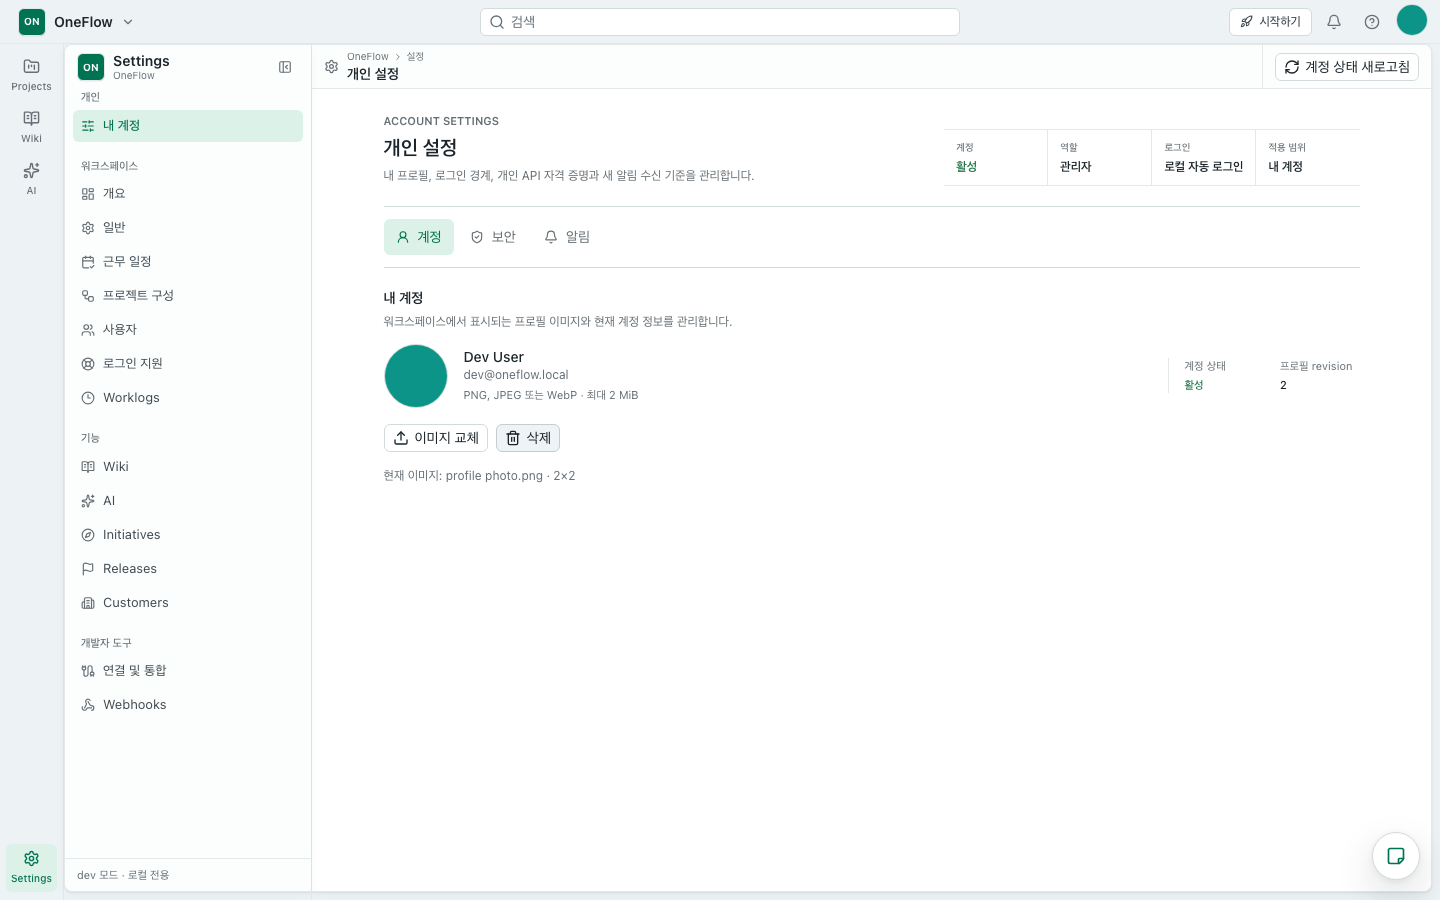
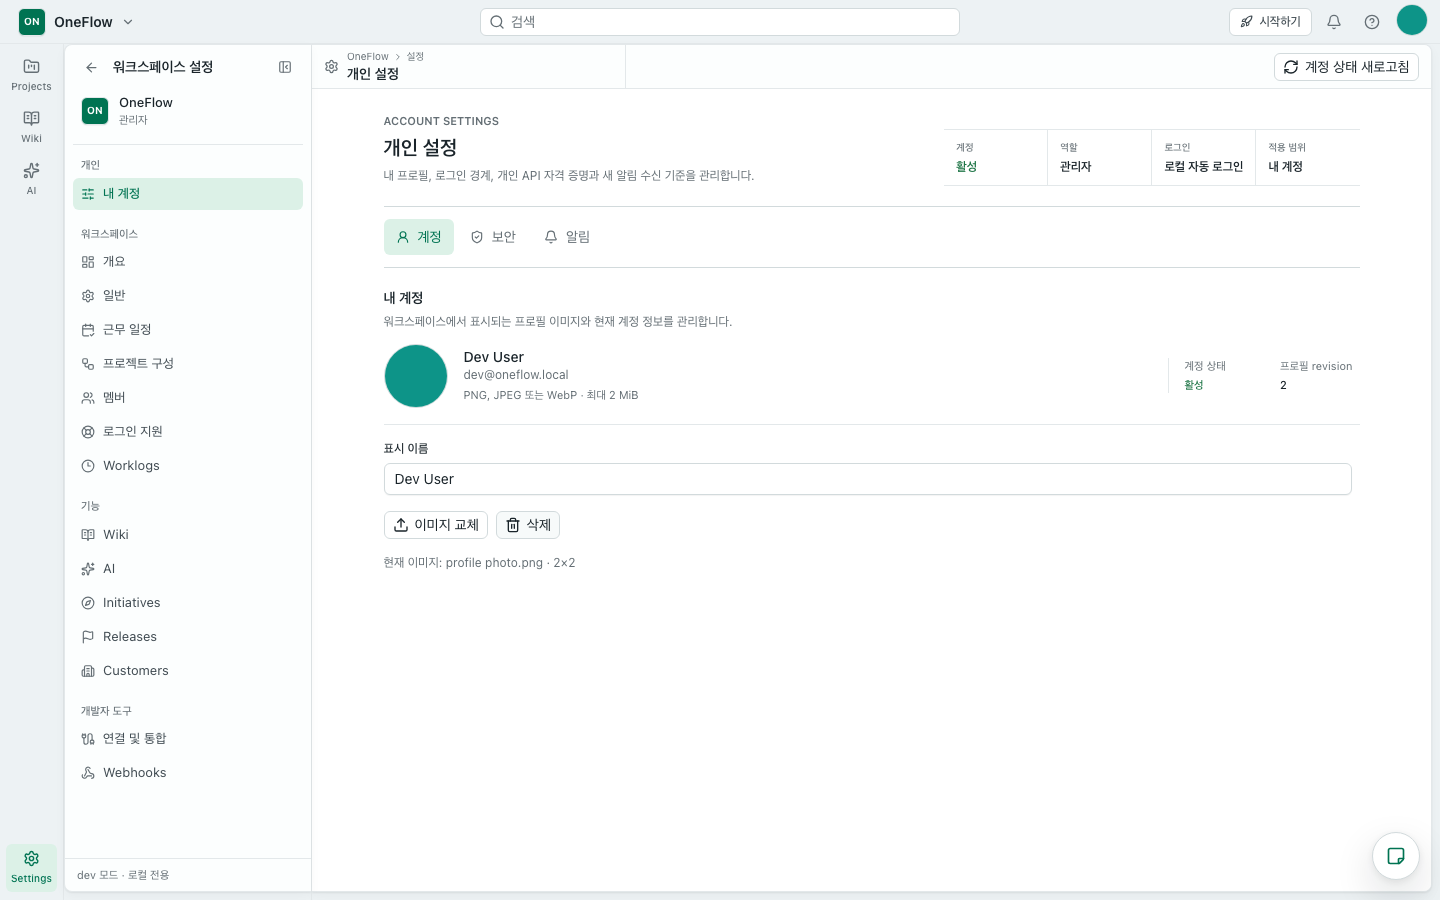
feat(profile): add self-service display name editing

diff --git a/apps/web/src/features/settings/PersonalSettingsPage.tsx b/apps/web/src/features/settings/PersonalSettingsPage.tsx
@@ -33,6 +33,7 @@ import {
   useMe,
   useRemoveProfileImage,
   useReplaceProfileImage,
+  useUpdateMyProfile,
 } from '@/features/members/api'
 import { ApiError } from '@/lib/api'
 import { formatDateTime } from '@/lib/datetime'
@@ -160,16 +161,23 @@ function ConfirmActionDialog({
 
 function AccountProfilePanel() {
   const me = useMe()
+  const updateProfile = useUpdateMyProfile()
   const replaceImage = useReplaceProfileImage()
   const removeImage = useRemoveProfileImage()
   const inputRef = useRef<HTMLInputElement>(null)
+  const [nameDraft, setNameDraft] = useState<string | null>(null)
   const [selected, setSelected] = useState<File | null>(null)
   const [selectionError, setSelectionError] = useState<string | null>(null)
   const [previewUrl, setPreviewUrl] = useState<string | null>(null)
 
+  const currentName = me.data?.display_name ?? ''
+  const effectiveName = nameDraft ?? currentName
+  const normalizedName = effectiveName.trim()
+  const nameDirty = nameDraft !== null && normalizedName !== currentName
+
   useUnsavedLocationPrompt(
-    selected !== null,
-    '저장하지 않은 프로필 이미지 선택을 버리고 이동할까요?',
+    selected !== null || nameDirty,
+    '저장하지 않은 프로필 변경을 버리고 이동할까요?',
   )
 
   useEffect(() => {
@@ -196,7 +204,10 @@ function AccountProfilePanel() {
     return <div className="h-20 animate-pulse rounded-of bg-of-subtle" aria-label="계정 불러오는 중" />
   }
 
-  const busy = replaceImage.isPending || removeImage.isPending
+  const busy = updateProfile.isPending || replaceImage.isPending || removeImage.isPending
+  const nameError = updateProfile.error
+  const nameStale = nameError instanceof ApiError && nameError.status === 412
+  const nameServerError = nameError instanceof ApiError ? nameError.message : null
   const mutationError = replaceImage.error ?? removeImage.error
   const stale = mutationError instanceof ApiError && mutationError.status === 412
   const serverError = mutationError instanceof ApiError ? mutationError.message : null
@@ -239,14 +250,86 @@ function AccountProfilePanel() {
         </dl>
       </div>
 
+      <div className="grid min-w-0 gap-2 border-t border-of-border-subtle pt-4 sm:grid-cols-[minmax(0,1fr)_auto] sm:items-end">
+        <label className="min-w-0 space-y-1.5">
+          <span className="block text-xs font-medium">표시 이름</span>
+          <Input
+            value={effectiveName}
+            maxLength={120}
+            autoComplete="name"
+            disabled={busy}
+            aria-invalid={normalizedName.length === 0}
+            onChange={(event) => {
+              setNameDraft(event.target.value)
+              updateProfile.reset()
+            }}
+          />
+        </label>
+        <div className="flex min-w-0 flex-wrap gap-2">
+          {nameDirty ? (
+            <Button
+              type="button"
+              size="sm"
+              disabled={busy || normalizedName.length === 0 || me.isFetching}
+              onClick={() =>
+                updateProfile.mutate(
+                  { displayName: normalizedName, revision: me.data.profile_revision },
+                  { onSuccess: () => setNameDraft(null) },
+                )
+              }
+            >
+              {updateProfile.isPending
+                ? '저장 중'
+                : me.isFetching
+                  ? '최신 상태 확인 중'
+                  : nameError
+                    ? '다시 저장'
+                    : '이름 저장'}
+            </Button>
+          ) : null}
+          {nameDraft !== null ? (
+            <Button
+              type="button"
+              size="sm"
+              variant="ghost"
+              disabled={busy}
+              onClick={() => {
+                setNameDraft(null)
+                updateProfile.reset()
+              }}
+            >
+              취소
+            </Button>
+          ) : null}
+        </div>
+      </div>
+
+      {normalizedName.length === 0 ? (
+        <p className="text-xs text-of-danger" role="alert">
+          표시 이름을 입력해 주세요.
+        </p>
+      ) : nameError ? (
+        <div className="flex min-w-0 flex-wrap items-center justify-between gap-2" role="alert">
+          <p className="text-xs text-of-danger">
+            {nameStale
+              ? me.isFetching
+                ? '다른 화면에서 프로필이 변경되었습니다. 최신 상태를 불러오는 중입니다.'
+                : '다른 화면에서 프로필이 변경되었습니다. 입력한 이름을 다시 저장해 주세요.'
+              : nameServerError ?? '표시 이름을 변경하지 못했습니다.'}
+          </p>
+        </div>
+      ) : null}
+
       <input
         ref={inputRef}
         type="file"
         accept="image/png,image/jpeg,image/webp"
+        disabled={busy}
         className="sr-only"
         aria-label="프로필 이미지 파일"
         onChange={(event) => {
           const file = event.target.files?.[0] ?? null
+          updateProfile.reset()
           replaceImage.reset()
           removeImage.reset()
           setSelectionError(null)

diff --git a/packages/shared/src/api-types.ts b/packages/shared/src/api-types.ts
@@ -1571,6 +1571,23 @@ export interface paths {
         patch: operations["update_personal_note_api_v1_me_personal_notes__note_id__patch"];
         trace?: never;
     };
+    "/api/v1/me/profile": {
+        parameters: {
+            query?: never;
+            header?: never;
+            path?: never;
+            cookie?: never;
+        };
+        get?: never;
+        put?: never;
+        post?: never;
+        delete?: never;
+        options?: never;
+        head?: never;
+        /** Update My Profile */
+        patch: operations["update_my_profile_api_v1_me_profile_patch"];
+        trace?: never;
+    };
     "/api/v1/me/profile-image": {
         parameters: {
             query?: never;
@@ -6609,6 +6626,14 @@ export interface components {
              * Format: uuid
              */
             user_id: string;
+        };
+        /**
+         * MeProfileUpdate
+         * @description Authenticated user's mutable personal profile fields.
+         */
+        MeProfileUpdate: {
+            /** Display Name */
+            display_name: string;
         };
         /**
          * MeRead
@@ -14773,6 +14798,44 @@ export interface operations {
                 };
                 content: {
                     "application/json": components["schemas"]["PersonalNoteError"];
+                };
+            };
+        };
+    };
+    update_my_profile_api_v1_me_profile_patch: {
+        parameters: {
+            query?: never;
+            header?: {
+                "If-Match"?: string | null;
+                authorization?: string | null;
+            };
+            path?: never;
+            cookie?: {
+                oneflow_session?: string | null;
+            };
+        };
+        requestBody: {
+            content: {
+                "application/json": components["schemas"]["MeProfileUpdate"];
+            };
+        };
+        responses: {
+            /** @description Successful Response */
+            200: {
+                headers: {
+                    [name: string]: unknown;
+                };
+                content: {
+                    "application/json": components["schemas"]["MeRead"];
+                };
+            };
+            /** @description Validation Error */
+            422: {
+                headers: {
+                    [name: string]: unknown;
+                };
+                content: {
+                    "application/json": components["schemas"]["HTTPValidationError"];
                 };
             };
         };

diff --git a/apps/web/src/features/members/api.ts b/apps/web/src/features/members/api.ts
@@ -20,6 +20,29 @@ export function useMe() {
   })
 }
 
+export function useUpdateMyProfile() {
+  const queryClient = useQueryClient()
+  return useMutation({
+    mutationFn: ({ displayName, revision }: { displayName: string; revision: number }) =>
+      api<Me>('/api/v1/me/profile', {
+        method: 'PATCH',
+        headers: { 'If-Match': `"${revision}"` },
+        body: JSON.stringify({ display_name: displayName }),
+      }),
+    onSuccess: (updated) => {
+      queryClient.setQueryData(['me'], updated)
+      void queryClient.invalidateQueries({ queryKey: ['members'] })
+      void queryClient.invalidateQueries({ queryKey: ['admin-users'] })
+      void queryClient.invalidateQueries({ queryKey: ['wp-watchers'] })
+    },
+    onError: (error) => {
+      if (error instanceof ApiError && error.status === 412) {
+        void queryClient.invalidateQueries({ queryKey: ['me'] })
+      }
+    },
+  })
+}
+
 export function profileImageSrc(
   profile: {
     profile_image_url?: string | null

diff --git a/apps/api/tests/test_profile_images.py b/apps/api/tests/test_profile_images.py
@@ -47,6 +47,89 @@ async def test_me_default_profile_image_contract(client):
     assert (await client.get("/api/v1/me/profile-image")).status_code == 404
 
 
+async def test_personal_profile_name_update_is_trimmed_revision_guarded_and_self_scoped(
+    client,
+    app,
+):
+    updated = await client.patch(
+        "/api/v1/me/profile",
+        json={"display_name": "  Renamed Self  "},
+        headers={"If-Match": '"1"'},
+    )
+    assert updated.status_code == 200, updated.text
+    assert updated.headers["etag"] == '"2"'
+    item = updated.json()
+    assert item["display_name"] == "Renamed Self"
+    assert item["profile_revision"] == 2
+    assert item["email"] == DEV_USER_EMAIL
+    assert item["is_active"] is True
+    assert item["is_admin"] is True
+
+    unchanged = await client.patch(
+        "/api/v1/me/profile",
+        json={"display_name": "Renamed Self"},
+        headers={"If-Match": '"2"'},
+    )
+    assert unchanged.status_code == 200
+    assert unchanged.headers["etag"] == '"2"'
+    assert unchanged.json()["profile_revision"] == 2
+
+    stale = await client.patch(
+        "/api/v1/me/profile",
+        json={"display_name": "Stale name"},
+        headers={"If-Match": '"1"'},
+    )
+    assert stale.status_code == 412
+    assert stale.headers["etag"] == '"2"'
+    assert stale.json()["detail"] == {
+        "code": "stale_revision",
+        "current_revision": 2,
+    }
+
+    image_with_stale_name_revision = await client.put(
+        "/api/v1/me/profile-image",
+        content=PNG,
+        headers=image_headers(1),
+    )
+    assert image_with_stale_name_revision.status_code == 412
+    image = await client.put(
+        "/api/v1/me/profile-image",
+        content=PNG,
+        headers=image_headers(2),
+    )
+    assert image.status_code == 200
+    assert image.json()["profile_revision"] == 3
+
+    async with app.state.sessionmaker() as session:
+        row = (await session.execute(select(User).where(User.email == DEV_USER_EMAIL))).scalar_one()
+        assert row.display_name == "Renamed Self"
+        assert row.profile_revision == 3
+
+
+async def test_personal_profile_name_update_validates_revision_and_name(client):
+    missing = await client.patch(
+        "/api/v1/me/profile",
+        json={"display_name": "Name"},
+    )
+    assert missing.status_code == 428
+
+    for invalid_etag in ('W/"1"', "1", '"0"', '"1", "2"'):
+        response = await client.patch(
+            "/api/v1/me/profile",
+            json={"display_name": "Name"},
+            headers={"If-Match": invalid_etag},
+        )
+        assert response.status_code == 422
+
+    for invalid_name in ("", "   ", "x" * 121):
+        response = await client.patch(
+            "/api/v1/me/profile",
+            json={"display_name": invalid_name},
+            headers={"If-Match": '"1"'},
+        )
+        assert response.status_code == 422
+
+
 async def test_profile_image_upload_read_replace_remove_and_sweep(client, app):
     uploaded = await client.put(
         "/api/v1/me/profile-image",

diff --git a/apps/api/app/api/v1/profile_images.py b/apps/api/app/api/v1/profile_images.py
@@ -29,7 +29,7 @@ from app.models.member import ProjectMember
 from app.models.notification import Notification
 from app.models.project_health_history import ProjectHealthHistory
 from app.models.user import User
-from app.schemas.user import MeRead
+from app.schemas.user import MeProfileUpdate, MeRead
 from app.services.document_access import document_is_visible
 from app.services.storage import LocalStorage
 from app.services.workspace_features import (
@@ -606,6 +606,26 @@ async def get_initiative_activity_actor_profile_image(
         settings,
         cache_control="private, no-store",
     )
+
+
+@router.patch("/me/profile", response_model=MeRead)
+async def update_my_profile(
+    body: MeProfileUpdate,
+    response: Response,
+    if_match: str | None = Header(default=None, alias="If-Match"),
+    session: AsyncSession = Depends(get_session),
+    user: User = Depends(get_current_user),
+) -> MeRead:
+    row = await _locked_user(session, user.id, _expected_revision(if_match))
+    if row.display_name == body.display_name:
+        response.headers["ETag"] = _etag(row.profile_revision)
+        return MeRead.model_validate(row)
+    row.display_name = body.display_name
+    row.profile_revision += 1
+    row.updated_at = datetime.now(UTC)
+    await session.commit()
+    response.headers["ETag"] = _etag(row.profile_revision)
+    return MeRead.model_validate(row)
 
 
 @router.put("/me/profile-image", response_model=MeRead)

diff --git a/apps/api/app/core/permissions.py b/apps/api/app/core/permissions.py
@@ -476,6 +476,7 @@ ENDPOINT_ALLOWLIST: dict[str, str] = {
         "개인 초안 정리 — 프로젝트 멤버십 상실 뒤에도 소유자만 삭제 가능"
     ),
     "PUT /api/v1/me/notification-settings": "개인 알림 설정 — 사용자 스코프",
+    "PATCH /api/v1/me/profile": "개인 프로필 이름 — 인증 사용자 자기 계정 스코프",
     "PUT /api/v1/me/profile-image": "개인 프로필 이미지 — 인증 사용자 자기 계정 스코프",
     "DELETE /api/v1/me/profile-image": "개인 프로필 이미지 제거 — 인증 사용자 자기 계정 스코프",
     "PUT /api/v1/me/project-directory-preferences": (

diff --git a/apps/api/app/schemas/user.py b/apps/api/app/schemas/user.py
@@ -30,6 +30,17 @@ class MeRead(UserRead):
     profile_revision: int
 
 
+class MeProfileUpdate(BaseModel):
+    """Authenticated user's mutable personal profile fields."""
+
+    display_name: str
+
+    @field_validator("display_name")
+    @classmethod
+    def _name(cls, v: str) -> str:
+        return _clean_display_name(v)
+
+
 class UserDirectoryRead(UserRead):
     """Directory row for workspace admins (/api/v1/users)."""
 
